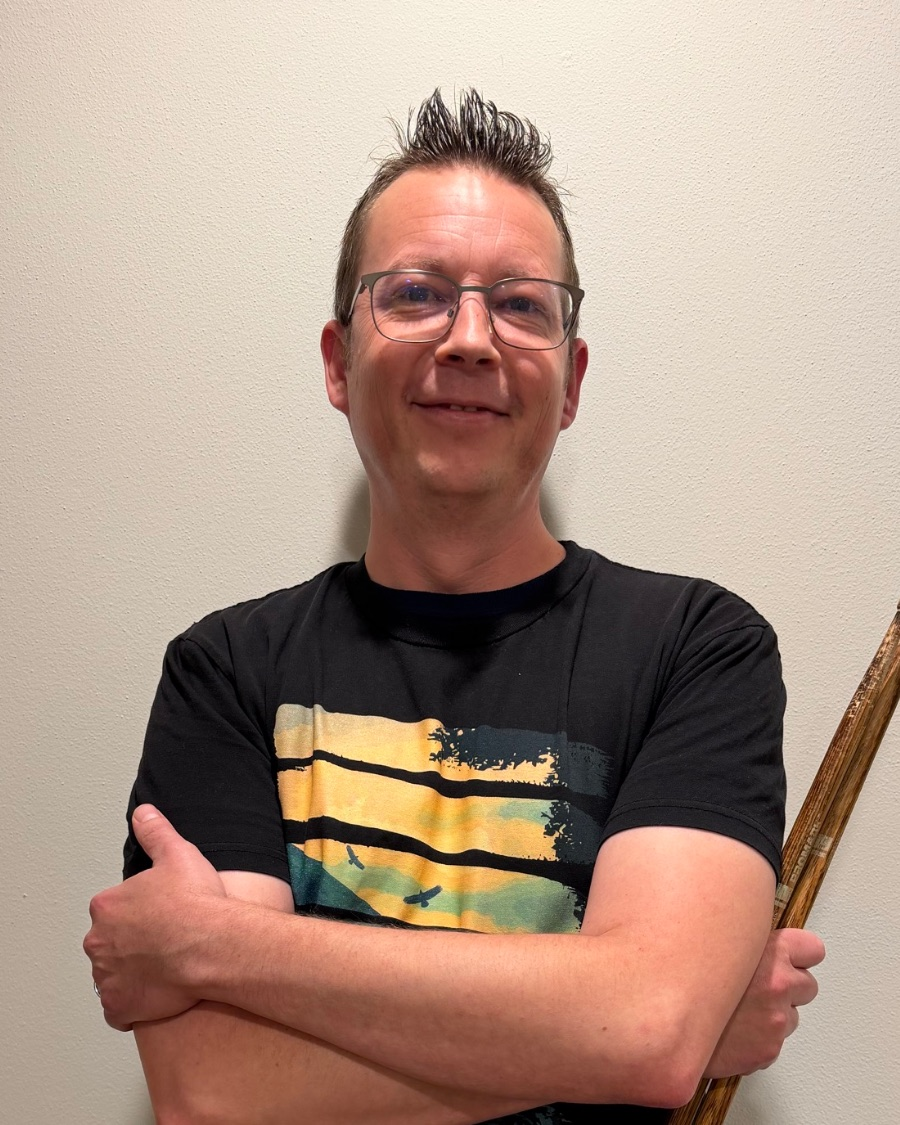
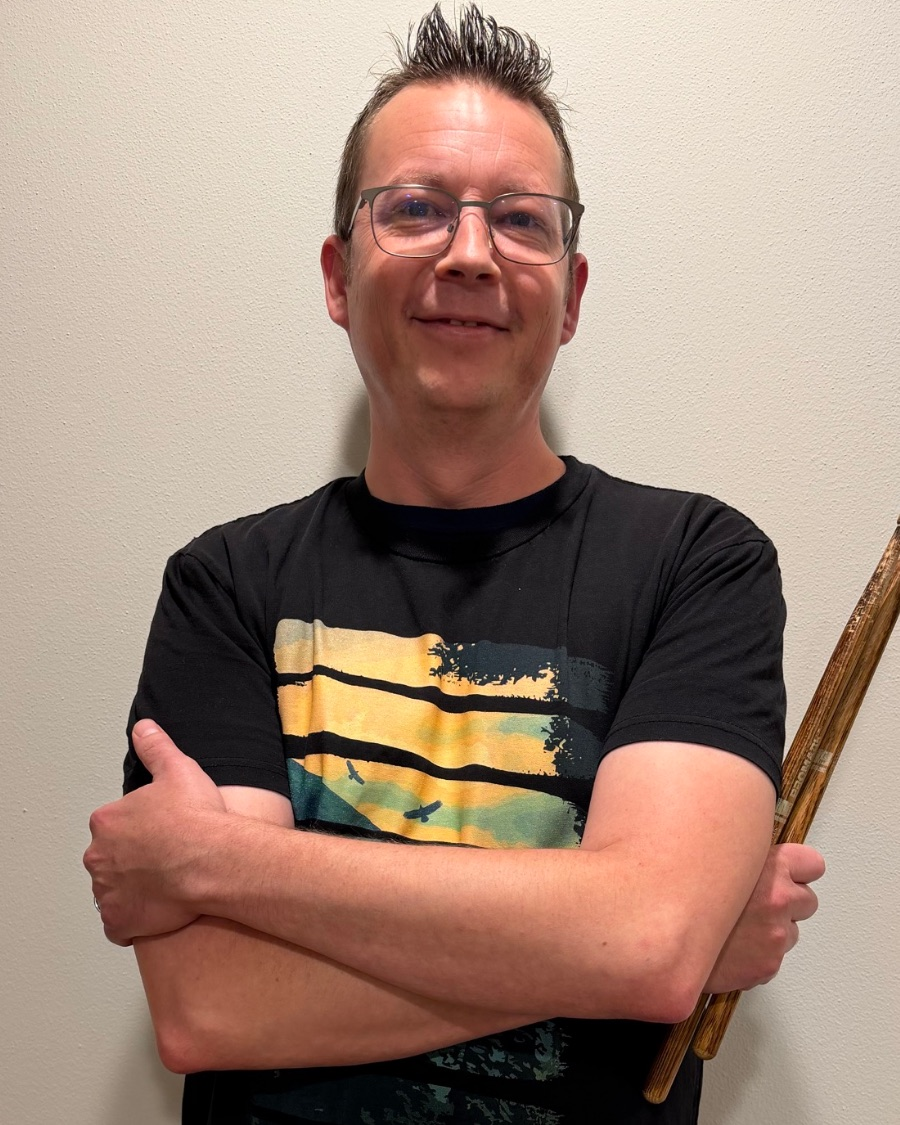
Nav wordmark in spaced capitals; portraits re-cropped and given a real duotone; keys & vocals; new hook

diff --git a/app/globals.css b/app/globals.css
@@ -135,7 +135,14 @@ p { text-wrap: pretty; }
   padding: 0.5rem var(--pad);
   display: flex; align-items: center; justify-content: space-between; gap: 1.5rem;
 }
-.nav-mark { font-family: var(--poster); font-weight: 700; font-size: 1.35rem; letter-spacing: 0.02em; text-decoration: none; white-space: nowrap; display: inline-flex; align-items: center; min-height: 44px; }
+.nav-mark {
+  /* ⚠ Deliberately NOT the headline serif. The hand-lettered logo is one scroll
+     away, and a second "The Analogs" in a different display face beside it
+     looked like a mistake. Small spaced capitals read as a label instead. */
+  font-family: var(--label); font-weight: 600; text-transform: uppercase;
+  font-size: 0.95rem; letter-spacing: 0.3em; color: var(--amber);
+  text-decoration: none; white-space: nowrap; display: inline-flex; align-items: center; min-height: 44px;
+}
 .nav-links { display: flex; align-items: center; gap: 1.75rem; }
 /* ⛔ :not(.btn) IS LOAD-BEARING. Without it this rule (specificity 0,1,1)
    beats .btn (0,1,0) and repaints the booking button's text --bone-2 — tan on
@@ -391,25 +398,51 @@ p { text-wrap: pretty; }
   color: var(--bone);
   transition: color 0.2s;
 }
-.lineup li:hover .lineup-part { color: var(--amber); }
+.lineup:not(.lineup-cards) li:hover .lineup-part { color: var(--amber); }
 .lineup-name { font-size: clamp(1.2rem, 2.3vw, 1.6rem); line-height: 1; color: var(--bone); }
 .lineup-cards .lineup-part { color: var(--bone); font-family: var(--label); font-weight: 500; text-transform: uppercase; font-size: 0.9rem; letter-spacing: 0.2em; }
 .lineup li:hover .lineup-name { color: var(--amber); }
 
 /* Portrait mode — only active once a member actually has a photo. */
 .lineup-cards { border-top: 0; gap: 1rem; }
-.lineup-cards li { border-bottom: 0; padding: 0; display: block; }
-.lineup-cards .lineup-text { margin-top: 0.75rem; gap: 0.6rem; }
-.lineup-shot { position: relative; aspect-ratio: 4 / 5; background: var(--ink-2); border: 1px solid var(--rule); overflow: hidden; }
-/* Four phone photos against four different walls, made one set: gray them,
-   then wash them in the site's gold. Hover clears it to the real color. */
-.lineup-shot::after { content: ""; position: absolute; inset: 0; background: linear-gradient(180deg, #d9b872, #8a6a36); mix-blend-mode: multiply; transition: opacity 0.35s; }
-.lineup-cards li:hover .lineup-shot::after { opacity: 0; }
-.lineup-shot img { width: 100%; height: 100%; object-fit: cover; filter: grayscale(1) contrast(1.15) brightness(1.08); transition: filter 0.35s, transform 0.6s cubic-bezier(0.2, 0.7, 0.2, 1); }
-.lineup-cards li:hover .lineup-shot img { filter: grayscale(0) contrast(1.03) brightness(1); transform: scale(1.03); }
+.lineup-cards li { border-bottom: 0; padding: 0; display: block; position: relative; }
+.lineup-cards .lineup-text { position: absolute; left: 1.1rem; right: 1.1rem; bottom: 1rem; z-index: 3; margin: 0; gap: 0.3rem; flex-direction: column; align-items: flex-start; }
+.lineup-cards .lineup-text::before { content: ""; width: 28px; height: 2px; background: var(--amber); margin-bottom: 0.45rem; }
+.lineup-shot { position: relative; aspect-ratio: 4 / 5; background: var(--ink-2); overflow: hidden; }
+/* ⭐ FOUR PHONE PHOTOS AGAINST FOUR DIFFERENT WALLS, MADE ONE SET.
+   Three layers, in order: the photo in hard black-and-white; a gold wash that
+   turns the grays into the site's gold; and a vignette that drops the wall
+   into shadow so what is left is a face in a pool of light. The first pass
+   had only a flat wash and the beige walls came through as mud. */
+.lineup-shot img {
+  width: 100%; height: 100%; object-fit: cover; object-position: 50% 20%;
+  filter: grayscale(1) contrast(1.38) brightness(0.98);
+  transition: filter 0.4s, transform 0.7s cubic-bezier(0.2, 0.7, 0.2, 1);
+}
+.lineup-shot::before {
+  content: ""; position: absolute; inset: 0; z-index: 1;
+  background: linear-gradient(180deg, #ecd39a 0%, #b88f4a 55%, #6d4f22 100%);
+  mix-blend-mode: multiply; transition: opacity 0.4s;
+}
+.lineup-shot::after {
+  content: ""; position: absolute; inset: 0; z-index: 2;
+  background:
+    radial-gradient(78% 62% at 50% 34%, transparent 42%, rgba(8,8,8,0.82) 100%),
+    linear-gradient(180deg, transparent 58%, rgba(8,8,8,0.9) 100%);
+  box-shadow: inset 0 0 0 1px rgba(217,184,114,0.28);
+  transition: opacity 0.4s;
+}
+.lineup-cards li:hover .lineup-shot img { filter: grayscale(0) contrast(1.04) brightness(1); transform: scale(1.03); }
+.lineup-cards li:hover .lineup-shot::before { opacity: 0; }
+.lineup-cards li:hover .lineup-shot::after { opacity: 0.55; }
 
 @media (max-width: 820px) { .lineup { grid-template-columns: repeat(2, 1fr); } }
 @media (max-width: 480px) { .lineup { grid-template-columns: 1fr; } }
+/* Portraits stay two-up on a phone: four full-width faces in a row is a very
+   long scroll before anyone reaches the booking form. */
+@media (max-width: 480px) { .lineup.lineup-cards { grid-template-columns: repeat(2, 1fr); gap: 0.6rem; }
+  .lineup-cards .lineup-text { left: 0.7rem; right: 0.7rem; bottom: 0.7rem; }
+  .lineup-cards .lineup-part { font-size: 0.74rem; letter-spacing: 0.14em; } }
 
 /* ---------- shows ---------- */
 

diff --git a/app/content.ts b/app/content.ts
@@ -26,7 +26,7 @@ export const BAND = {
      is filled in. */
   /* ⛔ NO ARTIST NAMES OR SONG TITLES ANYWHERE ON THE SITE. Owner, 2026-10-09:
      describe the genres and the range, not specific bands. */
-  hook: "Four players. Classic rock, ’90s alternative and soul, for rooms that came to sing along.",
+  hook: "Four players, real instruments, and sixty years of songs the whole room knows by heart.",
 
   /* ⚠ ASSUMED — both lines are Carper Diem's, word for word. Same area, so
      probably right; change them if this band plays different rooms. */
@@ -114,7 +114,7 @@ export const LINEUP: { part: string; name?: string; photo?: string }[] = [
      `name:` to any row to print it above the part. */
   { part: "Guitar", photo: "/band/guitar.jpg" },
   { part: "Bass", photo: "/band/bass.jpg" },
-  { part: "Keys", photo: "/band/keys.jpg" },
+  { part: "Keys & vocals", photo: "/band/keys.jpg" },
   { part: "Drums", photo: "/band/drums.jpg" },
 ];
 
